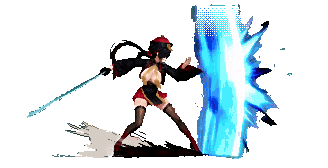
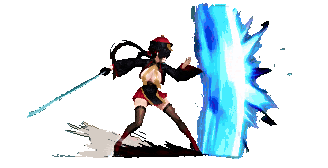
Zhusha cut-offs r2: carried trails only from the ground, quick, one at a time, with her; trail holes repaired; live's hit boxes; no finisher spin
The critic's round-1 notes (lanes\zhusha-1021b\cutoffs\critic-r1\):
- Floating trail after a jump attack: a slash trail is carried on only when she was on the ground at the cut (her trail
  drawings sit on her soles' floor line, so one carried from the air hung 100-150 px over the floor after she landed).
- Busier / longer chain: one carried trail at a time (the next cut stops it), its rest played in at most feel.json
  trailCarry.ticks (8: its clock sped up, FxClock.playFrom rate), kept with her (FxCarry.moveTo) while she attacks or
  runs on, on the ground, facing the same way; dash / hit / jump / turn leave it on the floor where it was.
- m1_2_trail f007 stub + see-through line, f008 V notch + hump (and f005-f009's holes where her legs / blade covered the
  band, a skin speck in f005 / f011): filled along the band's streaks, her dark remnants and the blade-hilt peak cut,
  ends that met her blade frayed per streak (r2\tools\trail_fix.py); m1_1_trail's blade-side ends frayed the same way.
- Hit boxes: the round-1 dither heals emptied 8 x 8 hit cells; those hit drawings (e_tap f008-f011, skill_q f004,
  uf_m1_2 f011, uf_m1_4 f012-f013, uf_skill_q f010 / f014 / f015) are now healed by fraying the straight cut along its
  streaks (flame tongues on a top, fibres on a side) while every hit cell keeps its energy (r2\tools\boundfray.py):
  derived.json's rects / active / root / feet / hits are 3e994938's exactly (0 differences). No checkerboard dither left
  on them.
[…]

Changed region(s): [[0.5793, 0.0, 0.7622, 0.2083]]

diff --git a/src/tesu/zhusha/controller.ts b/src/tesu/zhusha/controller.ts
@@ -45,7 +45,10 @@ export interface FeelFile {
   shakePx: number;
   hitstopCap: number;
   moves: Record<string, MoveDef>;
-  windDown: { rate: number };
+  /** finisherReturn (cutoffs r2): m1_4's return role (guard_to_rest) after its drawing; false: its drawing ends at rest. */
+  windDown: { rate: number; finisherReturn?: boolean };
+  /** (cutoffs r2) A carried-on slash trail plays its rest in at most `ticks`. */
+  trailCarry: { ticks: number };
   q: { hold: number; flash: number; camZoom: number; camTicks: number; camLeave: number };
   e: { hold: number; flash: number; skidEvery: number; boltFrom: number; boltSpeed: number };
   hurt: { stun: number; kb: [number, number]; iframes: number; heavyFrom: number; freeze: number; heavyFreeze: number; friction: number };
@@ -109,12 +112,15 @@ export interface ZHit extends HitBox {
 export interface ZFx {
   has(id: string): boolean;
   play(id: string, o: { x?: number; y?: number; facing?: number; attach?: "her" | "world"; delay?: number }): { stop(): void } | unknown;
-  /** Plays one already `from` ticks in (fx/contract.ts FxClock.playFrom). */
-  playFrom?(id: string, o: { x?: number; y?: number; facing?: number }, from: number): unknown;
+  /** Plays one already `from` ticks in, its clock at `rate` (fx/contract.ts FxClock.playFrom); moveTo keeps it with her. */
+  playFrom?(id: string, o: { x?: number; y?: number; facing?: number }, from: number, rate?: number): { stop(): void; moveTo?(x: number, y: number): void; readonly alive?: boolean } | unknown;
 }
 
 /** Where her drawing was and at which clip tick (controller.ts trailShown). */
-interface TrailAt { slot: string; t: number; total: number; x: number; y: number; facing: 1 | -1 }
+interface TrailAt { slot: string; t: number; total: number; x: number; y: number; facing: 1 | -1; grounded: boolean }
+
+/** The trail carried on (controller.ts trailOn): its handle, the way she faced, and whether it still goes with her. */
+interface Carried { h: { stop(): void; moveTo?(x: number, y: number): void; readonly alive?: boolean }; facing: 1 | -1; withHer: boolean }
 
 /** Which impact slash each of her hits leaves (FX v2 PLAN: a light, b medium, c heavy, f pierce, g finisher, h ult form). */
 export function impactSlash(move: string, weight: Weight, ult: boolean): string | undefined {
@@ -190,7 +196,13 @@ interface Ghost { x: number; y: number; lean: number; life: number; max: number;
 
 const M1 = ["m1_1", "m1_2", "m1_3", "m1_4"] as const;
 /** A move's return-to-rest role (slots.json), played after its own clip ends while she stands. */
-const TAILS: Record<string, string | null> = { m1_1: "m1_1_ret", m1_2: "m1_2_ret", m1_3: "m1_3_ret", m1_4: "m1_4_ret", skill_q: null, e_tap: null };
+const TAILS: Record<string, string | null> = {
+  m1_1: "m1_1_ret", m1_2: "m1_2_ret", m1_3: "m1_3_ret",
+  // (cutoffs r2) the finisher's own drawing ends at rest (m1_4 f014: blade upright before her); guard_to_rest after it is
+  // a full sword spin with big arcs (~2 s, reads as a fifth hit) that live never showed: feel.json windDown.finisherReturn
+  m1_4: FEEL.windDown.finisherReturn ? "m1_4_ret" : null,
+  skill_q: null, e_tap: null,
+};
 /**
  * Roles whose clip plays out while she stands (any input still takes her out). (cutoffs 10-21, Dex: "I'm still seeing
  * some cut off parts of animations") hurt and knockdown too: their state ends before their drawing does (hurt: stun 22 of
@@ -322,6 +334,8 @@ export class Zhusha {
   private lastLand = 0;
   /** Did locomotionAnim count this tick into landT (else update() does, so a landing inside a move ages too). */
   private landCounted = false;
+  /** The slash trail carried on from a drawing the next move cut short (one at a time; trailOn). */
+  private carried: Carried | null = null;
   private stopT = 99;
   private jumpT = 0;
   /** Ticks since she started falling (jump_arc's fall drawings). */
@@ -566,6 +580,7 @@ export class Zhusha {
     const q = this.qCam;
     if (q && (--q.t <= 0 || this.state === "ult" || this.dead > 0 || Math.abs(this.body.x - q.x) > FEEL.q.camLeave * H)) this.qCam = null;
     this.tickPose();
+    this.keepTrail();
     this.trailOn(trail);
   }
 
@@ -578,7 +593,7 @@ export class Zhusha {
     if (!this.fx?.playFrom || this.anim.hidden) return null;
     const c = this.clipAt(this.anim, this.ultForm);
     if (!c || !this.fx.has(`${c.slot}_trail`)) return null;
-    return { slot: c.slot, t: c.t, total: c.total, x: this.body.x, y: this.soleY, facing: this.facing };
+    return { slot: c.slot, t: c.t, total: c.total, x: this.body.x, y: this.soleY, facing: this.facing, grounded: this.body.grounded };
   }
 
   /**
@@ -592,7 +607,38 @@ export class Zhusha {
     if (now && now.slot === was.slot && now.t >= was.t) return;
     const from = Math.floor(was.t) + 1;
     if (from >= was.total) return;
-    this.fx?.playFrom?.(`${was.slot}_trail`, { x: was.x, y: was.y, facing: was.facing }, from);
+    // (cutoffs r2, critic: after a jump attack the carried m1_2 sweep hung 100-150 px over the floor) only from the
+    // ground: her trail drawings sit on her soles' floor line (m1_2's sweep, m1_4's crescents hug it), so one carried
+    // from the air would stay where she was in the air; in the air her drawing's trail goes with her drawing, as live
+    if (!was.grounded) return;
+    // one at a time (mashing left two beside the current move), and quick: the rest of the trail plays out in at most
+    // feel.json trailCarry.ticks (the normal chain reads as Dex has it: one slash on screen, its predecessor dissolving)
+    this.carried?.h.stop();
+    this.carried = null;
+    const rate = Math.max(1, (was.total - from) / FEEL.trailCarry.ticks);
+    const h = this.fx?.playFrom?.(`${was.slot}_trail`, { x: was.x, y: was.y, facing: was.facing }, from, rate);
+    if (h && typeof h === "object") this.carried = { h: h as Carried["h"], facing: was.facing, withHer: true };
+  }
+
+  /**
+   * (cutoffs r2, critic: lunging or running on, the carried trails were left 150-250 screen px behind her) The carried
+   * trail goes with her while she attacks on or runs on, on the ground, facing the way she cut it (her drawing's trail
+   * moved with her the same way); once she leaves the ground, turns, dashes off or is hit, it stays where it is (on the
+   * floor) and fades there.
+   */
+  private keepTrail(): void {
+    const c = this.carried;
+    if (!c) return;
+    if (c.h.alive === false) {
+      this.carried = null;
+      return;
+    }
+    if (!c.withHer) return;
+    if (!this.body.grounded || this.facing !== c.facing || this.anim.hidden || (this.state !== "move" && this.state !== "free")) {
+      c.withHer = false;
+      return;
+    }
+    c.h.moveTo?.(this.body.x, this.soleY);
   }
 
   private setState(s: State): void {

diff --git a/src/tesu/fx/contract.ts b/src/tesu/fx/contract.ts
@@ -170,11 +170,19 @@ export interface FxLive {
   t: number;
   serial: number;
   stopped: boolean;
+  /** Ticks of its clock per game tick (1; a carried-on trail plays its rest faster: FxClock.playFrom). */
+  rate?: number;
 }
 
 export interface FxHandle {
   stop(): void;
   readonly alive: boolean;
+}
+
+/** (cutoffs r2) A carried-on effect: its handle, and a way to keep it where she is (FxClock.playFrom). */
+export interface FxCarry extends FxHandle {
+  /** Puts it (and its parts) at world (x, y) from now on. */
+  moveTo(x: number, y: number): void;
 }
 
 const DEAD: FxHandle = { stop: () => {}, alive: false };
@@ -212,13 +220,23 @@ export class FxClock {
 
   /**
    * (cutoffs 10-21) Plays one (and its parts) already `from` ticks in: her slash trail carried on from the clip tick
-   * her drawing was cut at (zhusha/controller.ts trailOn), so it fades out whatever the next move does.
+   * her drawing was cut at (zhusha/controller.ts trailOn), so it fades out whatever the next move does. (r2) `rate`:
+   * its clock runs that many ticks a game tick (the rest of a trail played out quickly, not a second slash on screen);
+   * the handle's moveTo keeps it with her.
    */
-  playFrom(id: string, o: FxSpawn, from: number): FxHandle {
+  playFrom(id: string, o: FxSpawn, from: number, rate = 1): FxCarry {
     const s = this.serial;
     const h = this.play(id, o);
-    for (const e of this.live) if (e.serial >= s) e.t = Math.max(e.t, Math.round(from));
-    return h;
+    const mine = this.live.filter((e) => e.serial >= s);
+    for (const e of mine) {
+      e.t = Math.max(e.t, Math.round(from));
+      e.rate = Math.max(1, rate);
+    }
+    return {
+      stop: () => h.stop(),
+      get alive() { return h.alive; },
+      moveTo: (x: number, y: number) => { for (const e of mine) { e.x = x; e.y = y; } },
+    };
   }
 
   play(id: string, o: FxSpawn = {}, depth = 0): FxHandle {
@@ -246,7 +264,7 @@ export class FxClock {
 
   /** One tick: every effect ages; finished one-shots and stopped ones go. */
   tick(): void {
-    for (const e of this.live) e.t++;
+    for (const e of this.live) e.t += e.rate ?? 1;
     for (let i = this.live.length - 1; i >= 0; i--) {
       const e = this.live[i]!;
       if (e.stopped || (e.t >= 0 && fxFrameAt(e.def, e.t) === null)) this.live.splice(i, 1);

diff --git a/src/tesu/fx/fx.ts b/src/tesu/fx/fx.ts
@@ -7,7 +7,7 @@ import type { SpriteSheet } from "../../lab/engine/renderer.ts";
 import type { WorldRenderer } from "../../world/render/renderer.ts";
 import { artQuery } from "../zhusha/anims.ts";
 import { artTransform, type PlayView } from "../zhusha/units.ts";
-import { FxClock, fxCells, fxClipRows, type FxCell, fxFrameAt, fxGroundClip, FX_MAX_H, FX_MAX_STORED, FX_MAX_W, validateFx, type FxDef, type FxHandle, type FxLayer, type FxSpawn } from "./contract.ts";
+import { FxClock, fxCells, fxClipRows, type FxCell, fxFrameAt, fxGroundClip, FX_MAX_H, FX_MAX_STORED, FX_MAX_W, validateFx, type FxCarry, type FxDef, type FxHandle, type FxLayer, type FxSpawn } from "./contract.ts";
 
 /** Effects present at build time (a missing one is never fetched). */
 export const FX_PRESENT: string[] = Object.keys(import.meta.glob("/public/assets/fx/*/fx.json"))
@@ -201,9 +201,9 @@ export class Fx {
     return this.clock.play(id, o);
   }
 
-  /** Plays one already `from` ticks in (fx/contract.ts FxClock.playFrom: her slash trail carried on). */
-  playFrom(id: string, o: FxSpawn, from: number): FxHandle {
-    return this.clock.playFrom(id, o, from);
+  /** Plays one already `from` ticks in, at `rate` (fx/contract.ts FxClock.playFrom: her slash trail carried on). */
+  playFrom(id: string, o: FxSpawn, from: number, rate = 1): FxCarry {
+    return this.clock.playFrom(id, o, from, rate);
   }
 
   tick(): void {

diff --git a/src/tesu/game.ts b/src/tesu/game.ts
@@ -312,7 +312,7 @@ export class TesuGame {
     // R plays the FX loop's effects when they are in (zhusha/ult.ts; its stand-ins draw until then)
     this.player.r.fx = { has: (id) => this.fx.clock.has(id), play: (id, o) => this.fx.play(id, o) };
     // (lane E 10-20) her moves play FX v2's built effects through the same door
-    this.player.fx = { ...this.player.r.fx, playFrom: (id, o, from) => this.fx.playFrom(id, o, from) };
+    this.player.fx = { ...this.player.r.fx, playFrom: (id, o, from, rate) => this.fx.playFrom(id, o, from, rate) };
     this.props = new Props({
       player: this.player, vfx: this.vfx, feel: this.feel, camera: this.camera,
       ground: (x, y) => this.collision.groundBelow(x, y)?.y ?? null,

diff --git a/docs/character/PIPELINE.md b/docs/character/PIPELINE.md
@@ -1347,6 +1347,18 @@ charScale (1.1 x 96 = 105.6 world px, `zhusha/feel.json`), i.e. 0.825 world px p
   dither; her figure, blade and colours are never touched), then re-run `tools/zhusha/derive.mjs`. [proven]
 - (cutoffs 2026-10-21) A move's landing (m1_4's hop, a knock-up) ages with the move, and hurt / knockdown play their
   recovery out after the stun, so a state's end never pops to the landing crouch or idle. [proven, `cutoffs.test.mjs`]
+- (cutoffs r2 2026-10-22) A carried trail is only carried from the ground (her trail drawings sit on her soles' floor
+  line: one carried from the air hung over the floor after she landed), one at a time, its rest played in at most
+  feel.json `trailCarry.ticks` (8), and it goes with her while she attacks or runs on, on the ground, facing the same
+  way (else it stays on the floor where it was). The trail effects' holes, stubs and humps where her body / blade / legs
+  covered the band are repaired by `lanes\zhusha-1021b\cutoffs\r2\tools\trail_fix.py` (fill along the streaks, fray the ends
+  that met her blade); re-run it after `trail_fx.py`. [proven, `cutoffs.test.mjs`, captures cutoffs\ba2\]
+- (cutoffs r2) A heal must not shrink a hit: `derived.json`'s rects / active / root / feet stay what the unhealed
+  drawings gave (the r1 dither heals emptied 8 x 8 hit cells). Hit drawings are healed by fraying the straight cut
+  along its streaks (tongues for a top, fibres for a side) while every hit cell keeps >= 6 energy px joined to the slash
+  (`lanes\zhusha-1021b\cutoffs\r2\tools\boundfray.py`, checked by `hitkeep.py --dry`). [proven: 0 differences vs 3e994938]
+- (cutoffs r2) m1_4 ends on its own last drawing (blade upright before her) and goes to rest; its return role
+  guard_to_rest (a full spin with big arcs) is behind feel.json `windDown.finisherReturn` (false): Dex's call.
 
 ---
 
